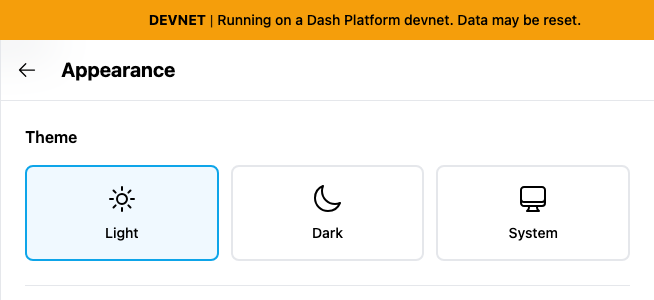
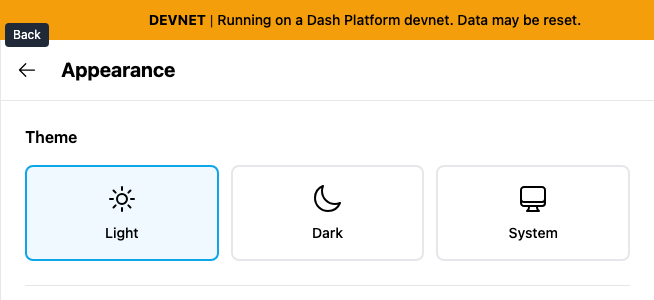
docs(yappr): add settings-back-label evidence for PR 442

Changed region(s): [[0.0, 0.06, 0.0917, 0.18]]

diff --git a/yappr/pr-442/README.md b/yappr/pr-442/README.md
@@ -1,7 +1,7 @@
 # Yappr #442 — Settings Back control name
 
 Before — exact staging base `4105c5d1c914f5d0838619da93c3b8d28b4a780e`.
-After — full PR head `f2f72aa2691845a4a4d8ea8184f6b0eb056eef03`.
+After — full PR head `0e1008e0e9054f48b8969518317c234602b59d8f`.
 Both independently built with `npm run build:devnet`; separate output directories and fresh independent authenticated Chromium contexts. Source tree remained clean after the signed commit; staging was checked to remain at the stated base.
 
 Same existing persona44 `soren-notes7.dash`, identity `4WJqx5yBKTW3v6FbkvwNZpGvWyafDzTjMSZLZEYwtC8R`. Viewport1280×1100, scale1, light theme, en-US, America/Chicago. Auth fixture initialized the local session only; key remained in memory and never appeared in any input or screenshot. No product DOM or requests mocked. All input fields stayed empty. Unrelated asynchronous sidebar loading/counts can vary in full context; no claim depends on them.
@@ -32,9 +32,11 @@ Targeted ESLint, standalone TypeScript, production devnet build, and independent
 
 ## SHA-256
 
[9 lines of base64/hex data omitted]
+
+Correction: this final-head comparison supersedes the initial draft captures, where the sticky page header obscured the tooltip. The final build places the tooltip above that header; the current after images visibly show Back.
